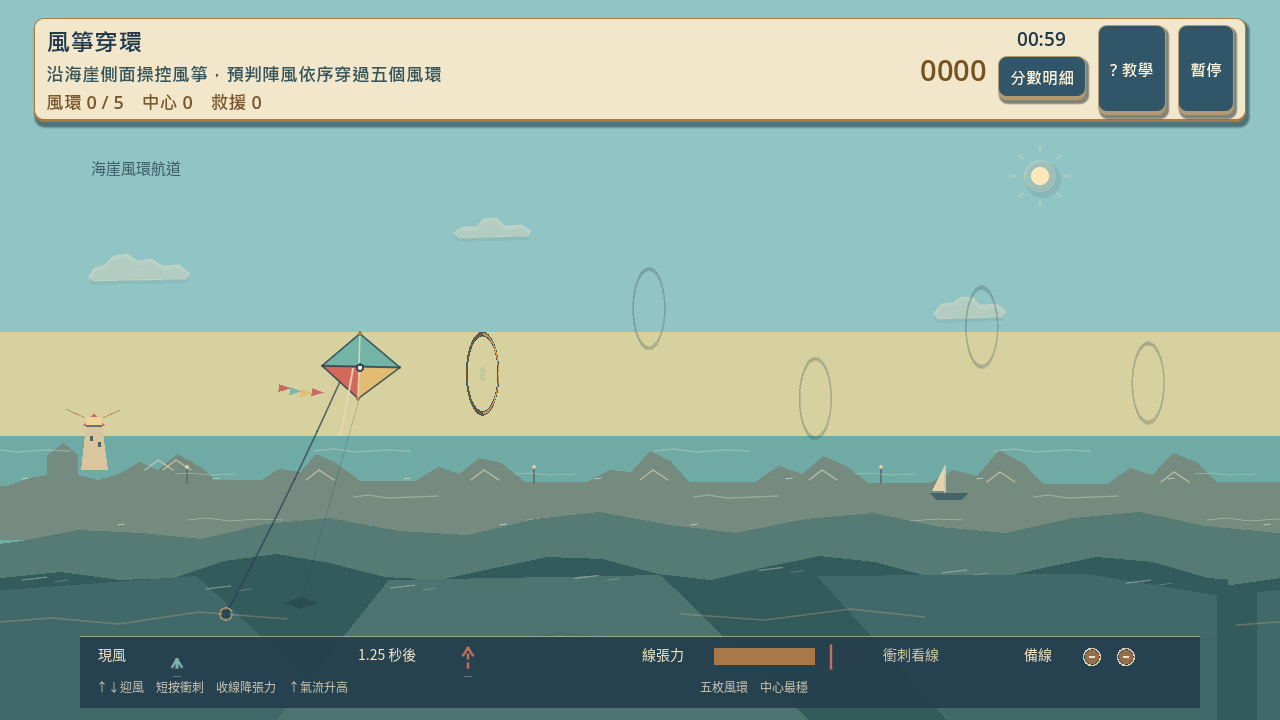
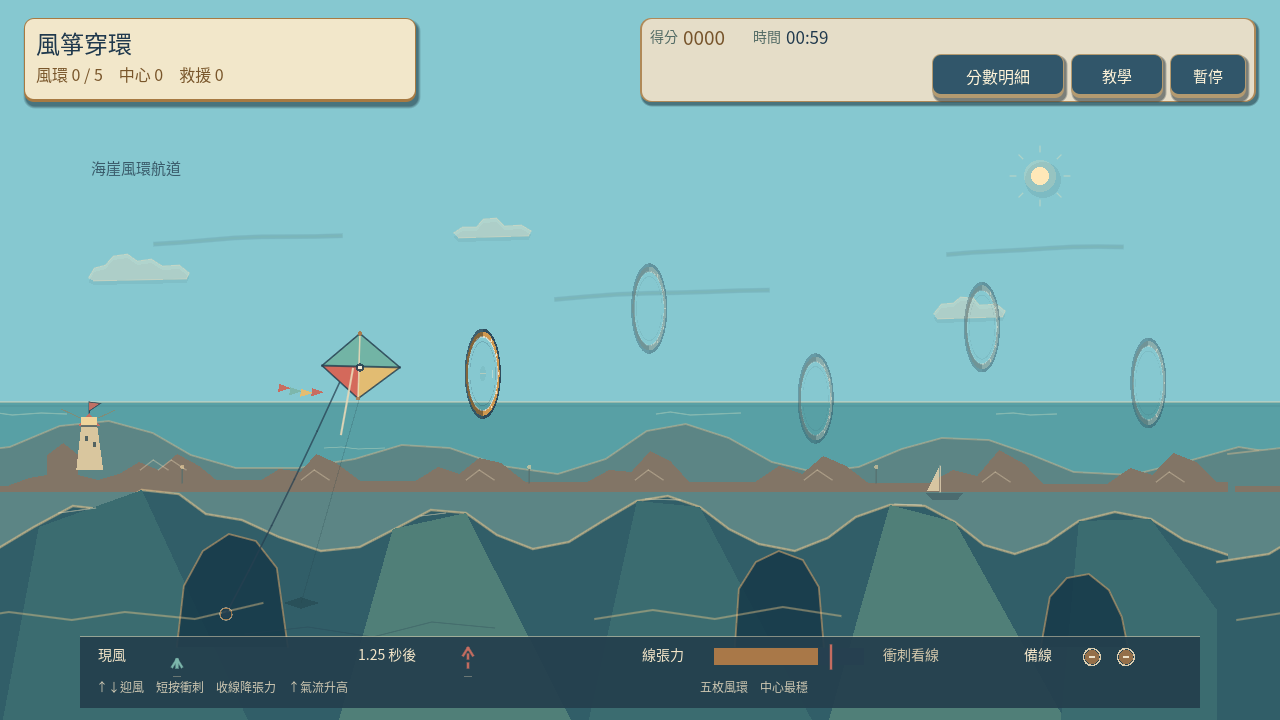
更新風箏首次教學與最新原生畫面

diff --git a/pm/Snapland-small-game/[SG-17]精修風箏穿環玩法與計分.md b/pm/Snapland-small-game/[SG-17]精修風箏穿環玩法與計分.md
@@ -125,3 +125,38 @@
 本次驗收涵蓋 Main 流程與收藏持久化，票況維持進行中。影片格式、逐圖雜湊、聯絡頁對照及執行紀錄見 [證據索引](images/SG-17-mainflow-evidence-manifest.json)。
 
 分支：`feature/island-first-park`；固定流程驗收基準：`186b3a90fb904ae37ba98ff09a258b802d956022`。
+
+
+## Commit — Main 普通回合教學截圖更新
+
+**問題**
+首次進入風箏教學仍使用舊截圖；第二步的替代文字描述模型目前沒有的上升／下降雙向氣流，第三步也不能把風張力警告圖誤作結算示意。
+
+**改動**
+將完整 Main 正常速度流程的三張原生圖複製到 game-002 教學步驟：普通回合操作、實際上升陣風、自然 500 分結算。第二步替代文字改為實際向上的預報；第三步描述普通與小惡魔收藏結果。普通條件及加碼條件維持現行規則：五環中心穿越、零擦邊、零救援且未開輔助。沒有改其他教學課程。
+
+**驗收**
+三張 PNG 直接複製原始 Main 截圖，沒有裁切或重繪；來源和目標雜湊見候選 manifest。教學面板／目錄局部測試在候選執行結果另列。Root 尚待從 Main 開啟首次教學並檢查三張圖片在教學版面中的實際呈現，故本次不宣稱教學原生驗收完成，票維持進行中。
+
+![教學步驟一：正常回合操作](../../assets/ui/tutorials/game-002-step-01.png)
+![教學步驟二：上升陣風](../../assets/ui/tutorials/game-002-step-02.png)
+![教學步驟三：500 分結算](../../assets/ui/tutorials/game-002-step-03.png)
+
+
+## Commit — 修正風箏第三步教學替代文字
+
+**問題**
+第三步圖片的替代文字以 Main 流程術語描述結算，玩家不易直接理解。
+
+**改動**
+第三步改為描述五環中心穿越取得 500 分，以及普通拍貼和小惡魔同時入鏡。只更新 game-002 第三步文字，其他教學課程與遊戲條件維持原樣。
+
+**驗收**
+隔離存檔下以真實 E 鍵開啟 game-002 首次教學，並以原生頁面操作切換三步。Root 查看三頁教學畫面；更新文字後的原生執行耗時 5.888 秒，紀錄為零錯誤、零資源洩漏。教學目錄檢查通過，僅包含預期的缺圖測試警告。此項驗收只確認教學面板和圖片呈現，不代表小遊戲實際遊玩完成。
+
+![教學步驟一](images/SG-17-kite-current-tutorial-step-01.png)
+![教學步驟二](images/SG-17-kite-current-tutorial-step-02.png)
+![教學步驟三與更新後替代文字](images/SG-17-kite-current-tutorial-step-03.png)
+[原生執行紀錄](images/SG-17-kite-current-tutorial-native.log)
+
+先前 Main 流程交付：[63e2d06](https://github.com/deadline314/Snapland/commit/63e2d06df43382be860cafafdf2d40eff308692e)。票況維持進行中。
